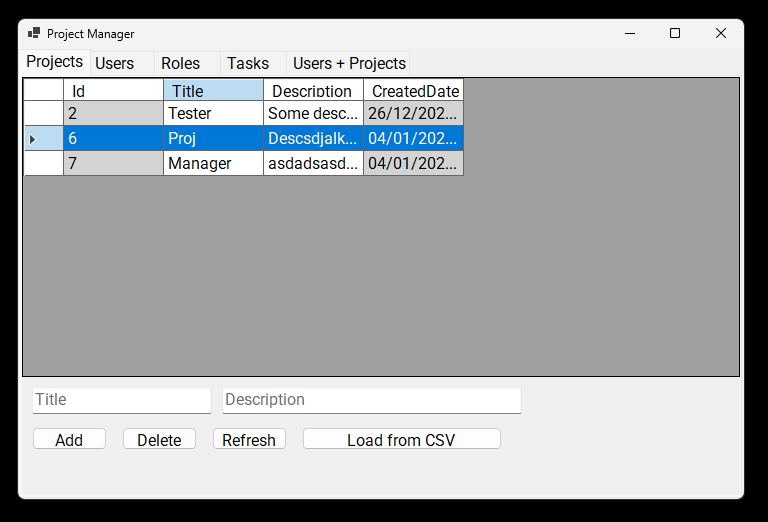
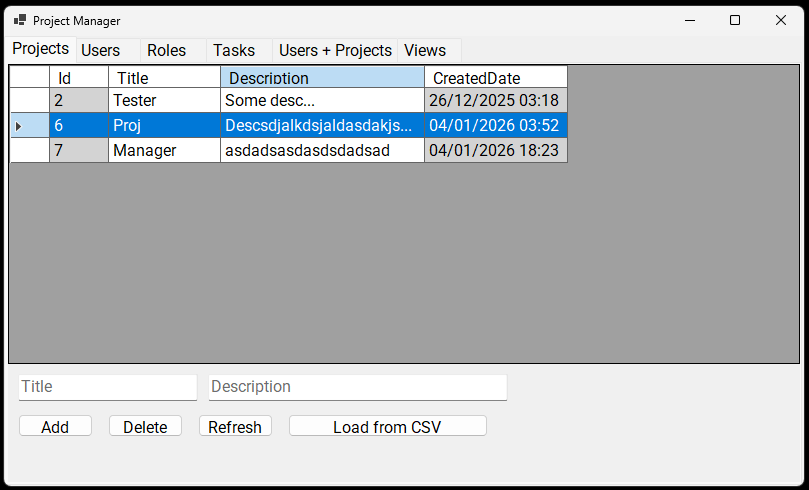
downgraded to .NET 9.0 for compatibility added: tabs for views

Changed region(s): [[0.0, 0.0, 1.0, 1.0], [0.4062, 0.8265, 0.5938, 0.8878]]

diff --git a/ProjectManager/Database/Views/ProjectContributors.cs b/ProjectManager/Database/Views/ProjectContributors.cs
@@ -1,0 +1,49 @@
+using Microsoft.Data.SqlClient;
+
+namespace ProjectManager.Database.Views;
+
+public class ProjectContributors
+{
+    public string ProjectTitle { get; set; }
+    public int Contributors { get; set; }
+
+    public ProjectContributors(string projectTitle, int contributors)
+    {
+        ProjectTitle = projectTitle;
+        Contributors = contributors;
+    }
+}
+
+public static class ViewProjectsContributors
+{
+    public static List<ProjectContributors> List()
+    {
+        try
+        {
+            var conn = ProjectsDatabase.Instance.Connection;
+
+            using var command = new SqlCommand(
+                "SELECT title, contributors FROM view_projects_contributors_amount",
+                conn
+            );
+
+            using var reader = command.ExecuteReader();
+            var result = new List<ProjectContributors>();
+
+            while (reader.Read())
+            {
+                result.Add(new ProjectContributors(
+                    reader.GetString(0),
+                    reader.GetInt32(1)
+                ));
+            }
+
+            return result;
+        }
+        catch (Exception e)
+        {
+            Console.WriteLine("[DATABASE]:ViewProjectsContributors:List ERROR: " + e.Message);
+            return [];
+        }
+    }
+}

diff --git a/ProjectManager/Database/Views/ViewUserWorkload.cs b/ProjectManager/Database/Views/ViewUserWorkload.cs
@@ -1,0 +1,49 @@
+using Microsoft.Data.SqlClient;
+
+namespace ProjectManager.Database.Views;
+
+public class UserWorkload
+{
+    public string Username { get; set; }
+    public int Assignments { get; set; }
+
+    public UserWorkload(string username, int assignments)
+    {
+        Username = username;
+        Assignments = assignments;
+    }
+}
+
+public static class ViewUsersWorkload
+{
+    public static List<UserWorkload> List()
+    {
+        try
+        {
+            var conn = ProjectsDatabase.Instance.Connection;
+
+            using var command = new SqlCommand(
+                "SELECT username, assignments FROM view_users_workload",
+                conn
+            );
+
+            using var reader = command.ExecuteReader();
+            var result = new List<UserWorkload>();
+
+            while (reader.Read())
+            {
+                result.Add(new UserWorkload(
+                    reader.GetString(0),
+                    reader.GetInt32(1)
+                ));
+            }
+
+            return result;
+        }
+        catch (Exception e)
+        {
+            Console.WriteLine("[DATABASE]:ViewUsersWorkload:List ERROR: " + e.Message);
+            return [];
+        }
+    }
+}

diff --git a/ProjectManager/Interface/Tabs/Views/UsersWorkloadTab.cs b/ProjectManager/Interface/Tabs/Views/UsersWorkloadTab.cs
@@ -1,0 +1,47 @@
+using ProjectManager.Database.Tables;
+using ProjectManager.Database.Views;
+
+namespace ProjectManager.Interface.Tabs.Views;
+
+public sealed class UsersWorkloadTab: TabPage
+{
+    private DataGridView _grid;
+    private Button _btnRefresh;
+
+    public UsersWorkloadTab()
+    {
+        Text = "Users Workload";
+        Initialize();
+        LoadData();
+    }
+
+    private void Initialize()
+    {
+        _grid = new DataGridView
+        {
+            Dock = DockStyle.Top,
+            Height = 300,
+            ReadOnly = true,
+            AllowUserToAddRows = false,
+            SelectionMode = DataGridViewSelectionMode.FullRowSelect,
+            AutoGenerateColumns = true
+        };
+
+        _btnRefresh = new Button
+        {
+            Text = "Refresh",
+            Top = 310,
+            Left = 10
+        };
+
+        _btnRefresh.Click += (_, _) => LoadData();
+
+        Controls.Add(_grid);
+        Controls.Add(_btnRefresh);
+    }
+
+    private void LoadData()
+    {
+        _grid.DataSource = ViewUsersWorkload.List();
+    }
+}

diff --git a/ProjectManager/Interface/Tabs/Views/ProjectsContributorsTab.cs b/ProjectManager/Interface/Tabs/Views/ProjectsContributorsTab.cs
@@ -1,0 +1,46 @@
+using ProjectManager.Database.Views;
+
+namespace ProjectManager.Interface.Tabs.Views;
+
+public sealed class ProjectsContributorsTab : TabPage
+{
+    private DataGridView _grid;
+    private Button _btnRefresh;
+
+    public ProjectsContributorsTab()
+    {
+        Text = "Project Contributors";
+        Initialize();
+        LoadData();
+    }
+
+    private void Initialize()
+    {
+        _grid = new DataGridView
+        {
+            Dock = DockStyle.Top,
+            Height = 300,
+            ReadOnly = true,
+            AllowUserToAddRows = false,
+            SelectionMode = DataGridViewSelectionMode.FullRowSelect,
+            AutoGenerateColumns = true
+        };
+
+        _btnRefresh = new Button
+        {
+            Text = "Refresh",
+            Top = 310,
+            Left = 10
+        };
+
+        _btnRefresh.Click += (_, _) => LoadData();
+
+        Controls.Add(_grid);
+        Controls.Add(_btnRefresh);
+    }
+
+    private void LoadData()
+    {
+        _grid.DataSource = ViewProjectsContributors.List();
+    }
+}

diff --git a/ProjectManager/Interface/Tabs/Views/ViewsTab.cs b/ProjectManager/Interface/Tabs/Views/ViewsTab.cs
@@ -1,0 +1,27 @@
+using ProjectManager.Database.Tables;
+
+namespace ProjectManager.Interface.Tabs.Views;
+
+public sealed class ViewsTab : TabPage
+{
+    private TabControl _tabs;
+
+    public ViewsTab()
+    {
+        Text = "Views";
+        Initialize();
+    }
+
+    private void Initialize()
+    {
+        _tabs = new TabControl
+        {
+            Dock = DockStyle.Fill
+        };
+
+        _tabs.TabPages.Add(new UsersWorkloadTab());
+        _tabs.TabPages.Add(new ProjectsContributorsTab());
+
+        Controls.Add(_tabs);
+    }
+}

diff --git a/ProjectManager/Interface/Window.Designer.cs b/ProjectManager/Interface/Window.Designer.cs
@@ -1,4 +1,5 @@
 using ProjectManager.Interface.Tabs;
+using ProjectManager.Interface.Tabs.Views;
 
 namespace ProjectManager.Interface;
 
@@ -51,6 +52,7 @@ partial class Window
         this._tabControl.TabPages.Add(new RolesTab());
         this._tabControl.TabPages.Add(new TasksTab());
         this._tabControl.TabPages.Add(new UsersProjectsTab());
+        this._tabControl.TabPages.Add(new ViewsTab());
 
         this.Controls.Add(this._tabControl);
         

diff --git a/README.md b/README.md
@@ -1,10 +1,10 @@
 # PROJECT MANAGER
-Application for managing projects and tasks written in `C# 14` (`.NET 10.0`).
+Application for managing projects and tasks written in `C# 13` (`.NET 9.0`).
 Uses `Microsoft SQL Server` and for the user interface uses `WinForms`.
-<img src="resources/app.png" alt="Input Image" width="450"/>
+<img src="Resources/app.png" alt="Application" width="450"/>
 
 # Dependencies
-- `.NET 10.0`
+- `.NET 9.0`
 - `MSSQL` - Microsoft SQL Server
 
 # How to Run
@@ -29,7 +29,7 @@ You need a Microsoft SQL Server for the database.
 Uses Microsoft SQL Server.
 
 ### Diagram
-![cockpit screenshot](Resources/diagram.png)
+<img src="Resources/diagram.png" alt="ER Diagram" width="400"/>
 
 ## Used Libraries
 - WinForms
